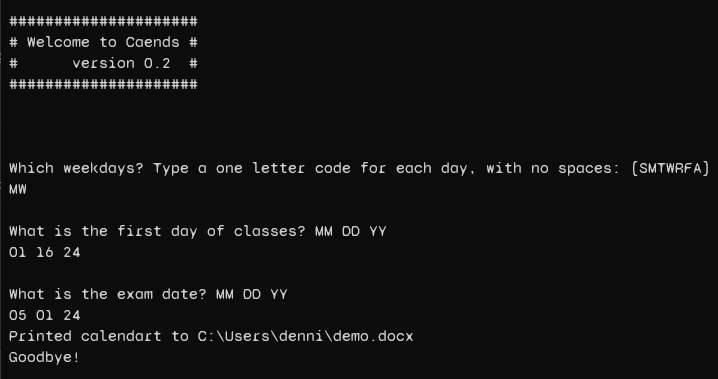
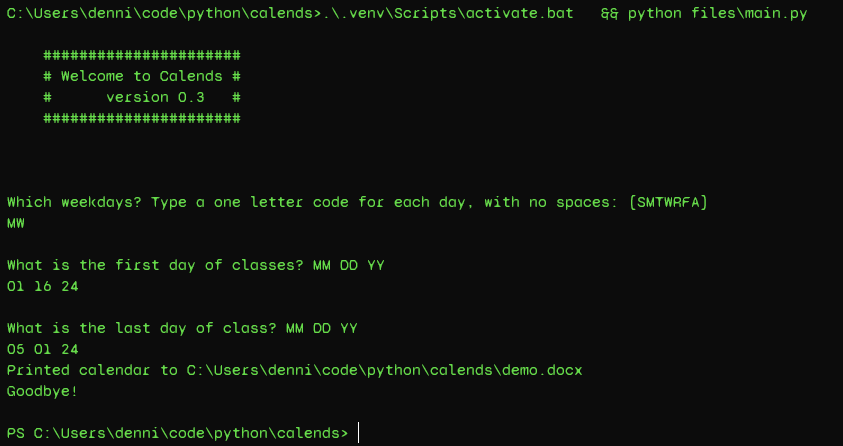
readme updates

diff --git a/files/main.py b/files/main.py
@@ -1,6 +1,7 @@
 import docx
 from datetime import datetime, timedelta
 import requests
+import os
 from bs4 import BeautifulSoup as bs
 from json import load
 TXST_CALENDAR = None
@@ -147,32 +148,7 @@ def get_TXST_holidays(start, end):
     return holidays
 
 
-# take a 7 column table and a class calendar,
-# fill in the table with the calendar info.
-def build_table_2_col(table, calendar):
-    # fill in the header row
-    hdr_cells = table.rows[0].cells
-    hdr_cells[0].text = hdr_cells[4].text = "Date"
-    hdr_cells[1].text = hdr_cells[5].text = "Topics"
-    hdr_cells[2].text = hdr_cells[6].text = "Assignments"
-    # if the number of dates is odd, add a blank entry
-    if len(calendar['dates']) % 2 == 1:
-        calendar['dates'].append('')
-        calendar['topics'].append('')
-        calendar['holidays'].append('')
 
-    # for each entry in half of list, append an entry each from
-    # first and last half, as a new row, to the table.
-    i = 0
-    j = len(calendar['dates']) // 2
-    while i < len(calendar['dates']) // 2:
-        row_cells = table.add_row().cells
-        row_cells[0].text = calendar['dates'][i]
-        row_cells[4].text = calendar['dates'][j]
-        row_cells[2].text = calendar['holidays'][i]
-        row_cells[6].text = calendar['holidays'][j]
-        i += 1
-        j += 1
 
 
 # take a 3 column table and a class calendar,
@@ -213,10 +189,10 @@ def load_config():
 ##############
 if __name__ == "__main__":
     load_config()
-    print("\n#####################\n"
-          "# Welcome to Caends #\n"
-          "#      version 0.2  #\n"
-          "#####################\n\n")
+    print("\n    ######################\n"
+          "    # Welcome to Calends #\n"
+          "    #      version 0.3   #\n"
+          "    ######################\n\n")
     start, end, weekdays = get_input()  # get inputs
     holidays = get_TXST_holidays(start, end)  # get observed holidays
     class_dates = build_dates(start, end, weekdays, holidays)  # populate list
@@ -225,5 +201,6 @@ if __name__ == "__main__":
     table = document.add_table(rows=1, cols=3)  # convert list to table
     build_table(table, class_dates)
     file_name = 'demo.docx'
-    document.save(file_name)
-    print(f"Printed calendar to {OUT_PATH}\{file_name}\nGoodbye!\n")
+    filepath = os.path.join(OUT_PATH, file_name)
+    document.save(filepath)
+    print(f"Printed calendar to {filepath}\nGoodbye!\n")

diff --git a/files/configure.py b/files/configure.py
@@ -1,29 +1,55 @@
-from os import environ
+import os
+from pathlib import Path
 from json import dumps
+
+
 def get_input():
     OUT_PATH = None
     TXST_CALENDAR = None
 
     while not TXST_CALENDAR:
         TXST_CALENDAR = input("\nEnter URL for TXST Academic Calendar \n"
-                              "(press Enter to use default:"
-       "https://www.registrar.txst.edu/registration/ac/academic-calendar.html)\n"
+                              "(press Enter to use default: "
+                              "https://www.registrar.txst.edu/registration/ac/academic-calendar.html)\n"  # noqa:E501
                               )
         if TXST_CALENDAR == "":
-            TXST_CALENDAR = "https://www.registrar.txst.edu/registration/ac/academic-calendar.html"
+            TXST_CALENDAR = "https://www.registrar.txst.edu/registration/ac/academic-calendar.html"  # noqa:E501
 
     while not OUT_PATH:
-        home = environ["HOMEDRIVE"]+environ['HOMEPATH']
+        home = os.environ["HOMEDRIVE"] + os.environ['HOMEPATH']
+        here = os.getcwd()
 
-        OUT_PATH = input("\nEnter file path where you want the output stored.\n"
-                         f"(press Enter to use default:{home})")
+        OUT_PATH = input("\nEnter file path where you want the output stored."
+                         f"\n(press Enter to use default: {home})"
+                         f"\n(type 1 to use default: {here})\n")
         if OUT_PATH == "":
             OUT_PATH = home
+        elif OUT_PATH == "1":
+            OUT_PATH = here
+        else:
+            try:
+                OUT_PATH = Path(OUT_PATH)
+                if not os.path.exists(OUT_PATH):
+                    print("bad path")
+                    OUT_PATH = None
+            except Exception as e:
+                print(e)
+                OUT_PATH = None
+    config = {
+        "TXST_CALENDAR": TXST_CALENDAR,
+        "OUT_PATH": str(OUT_PATH)
+    }
+    return config
 
+
+def write_config(config):
     file = open('files/config.json', 'w')
-    json = dumps({"TXST_CALENDAR": TXST_CALENDAR, "OUT_PATH":OUT_PATH})
+    json = dumps(config, indent=2)
     file.write(json)
     file.close()
+    print("\n...Successfully wrote config.json\n")
+
 
 if __name__ == "__main__":
-    get_input()
+    config = get_input()
+    write_config(config)

diff --git a/main.py b/main.py
@@ -221,5 +221,5 @@ if __name__ == "__main__":
     document = docx.Document()  # init output doc
     table = document.add_table(rows=1, cols=3)  # convert list to table
     build_table(table, class_dates)
-    document.save("demo.docx")
+    document.save("calends-output.docx")
     print("Printed calendart to 'demo.docx'.\nGoodbye!\n")

diff --git a/README.md b/README.md
@@ -1,8 +1,5 @@
-# calends ver 0.2
-An app for generating semester calendars. When complete, the user will specify
-a location for a holiday list, or use an API to get holidays, and specify weekdays
-for the class to meet. The app will create a .docx containing a table of
-"Mon dd" and "holiday status".
+# calends ver 0.3
+This app generates a .docx format table showing the class meeting dates for a specified time frame and automatically fills in when those dates fall on hoidays. The program is run in the terminal and outputs a document to the user-configured location.
 
 ![Output screenshot](/img/calends_screenshot.png)
 
@@ -10,12 +7,18 @@ for the class to meet. The app will create a .docx containing a table of
 
 1. Download [Python](https://www.python.org/downloads/)
 2. Download the [files](https://github.com/jonalfarlinga/calends) from Github. On the repository page (linked) click the <> Code button, and then Download ZIP.
-
 ![github screenshot](/img/github_screenshot.png)
-
 3. Extract the ZIP wherever you want to save calends.
 4. Double-click to run <code>install.bat</code>. Close the terminal when finished
 5. Double-click to run <code>configure.bat</code>. Press enter twice to use default values and close the terminal when finished.
+><details>
+>    <summary>Default Academic Calendar</summary>
+>    <p>https://www.registrar.txst.edu/registration/ac/academic-calendar.html</p>
+></details>
+><details>
+>   <summary>Default home path</summary>
+>   <p>User home (e.g.) C:\\Users\username\</p>
+></details>
 6. You are ready to go!
 
 ## Running calends

diff --git a/files/notes.md b/files/notes.md
@@ -75,3 +75,32 @@
     >>>     holiday['start'] = datetime.strptime(td.find('div', attrs={'class':'event-data'})['data-startdate'], "%Y-%m-%d")
     >>>     holiday['end'] = datetime.strptime(td.find('div', attrs={'class':'event-data'})['data-enddate'], "%Y-%m-%d")
     >>>     holidays.append(holiday)
+
+## 2 Column table
+
+    # take a 7 column Table and a class calendar,
+    # fill in the table with the calendar info.
+    def build_table_2_col(table, calendar):
+        # fill in the header row
+        hdr_cells = table.rows[0].cells
+        hdr_cells[0].text = hdr_cells[4].text = "Date"
+        hdr_cells[1].text = hdr_cells[5].text = "Topics"
+        hdr_cells[2].text = hdr_cells[6].text = "Assignments"
+        # if the number of dates is odd, add a blank entry
+        if len(calendar['dates']) % 2 == 1:
+            calendar['dates'].append('')
+            calendar['topics'].append('')
+            calendar['holidays'].append('')
+
+        # for each entry in half of list, append an entry each from
+        # first and last half, as a new row, to the table.
+        i = 0
+        j = len(calendar['dates']) // 2
+        while i < len(calendar['dates']) // 2:
+            row_cells = table.add_row().cells
+            row_cells[0].text = calendar['dates'][i]
+            row_cells[4].text = calendar['dates'][j]
+            row_cells[2].text = calendar['holidays'][i]
+            row_cells[6].text = calendar['holidays'][j]
+            i += 1
+            j += 1
